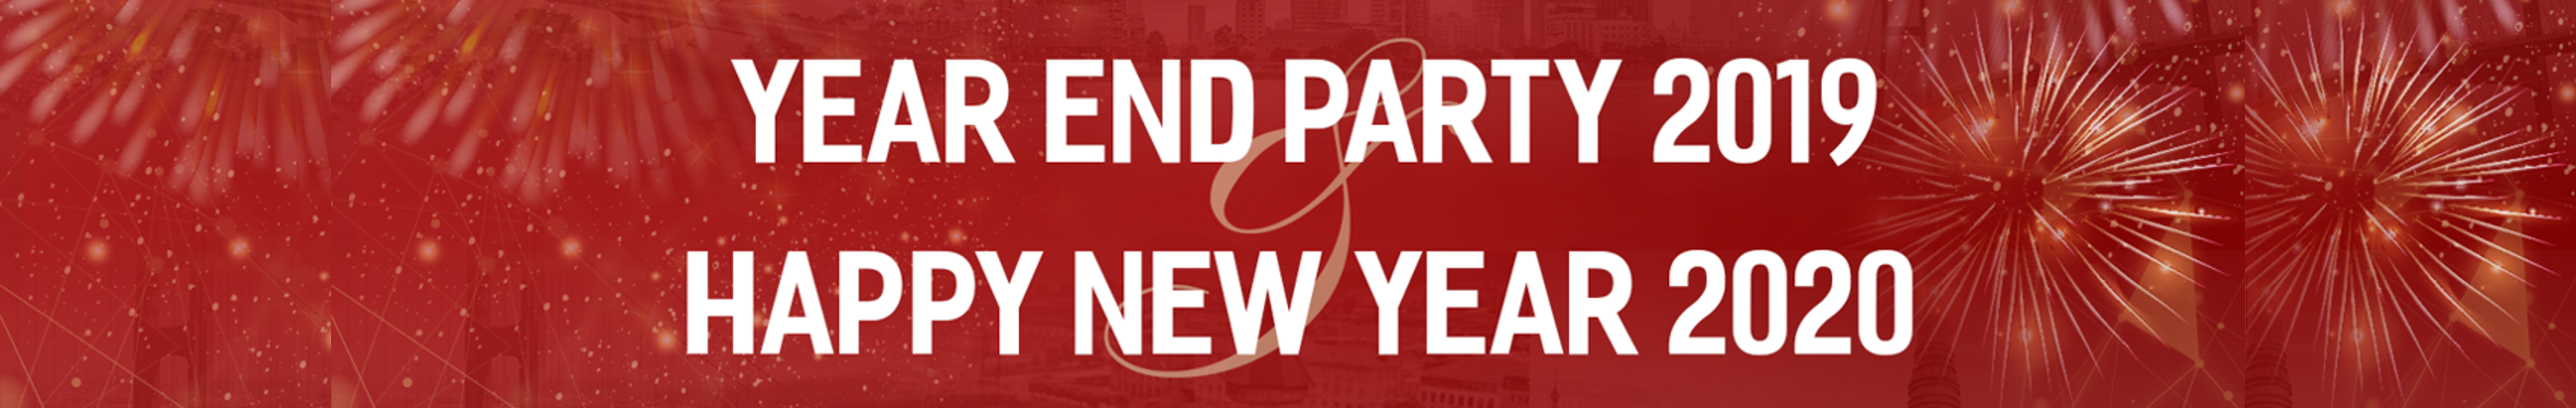
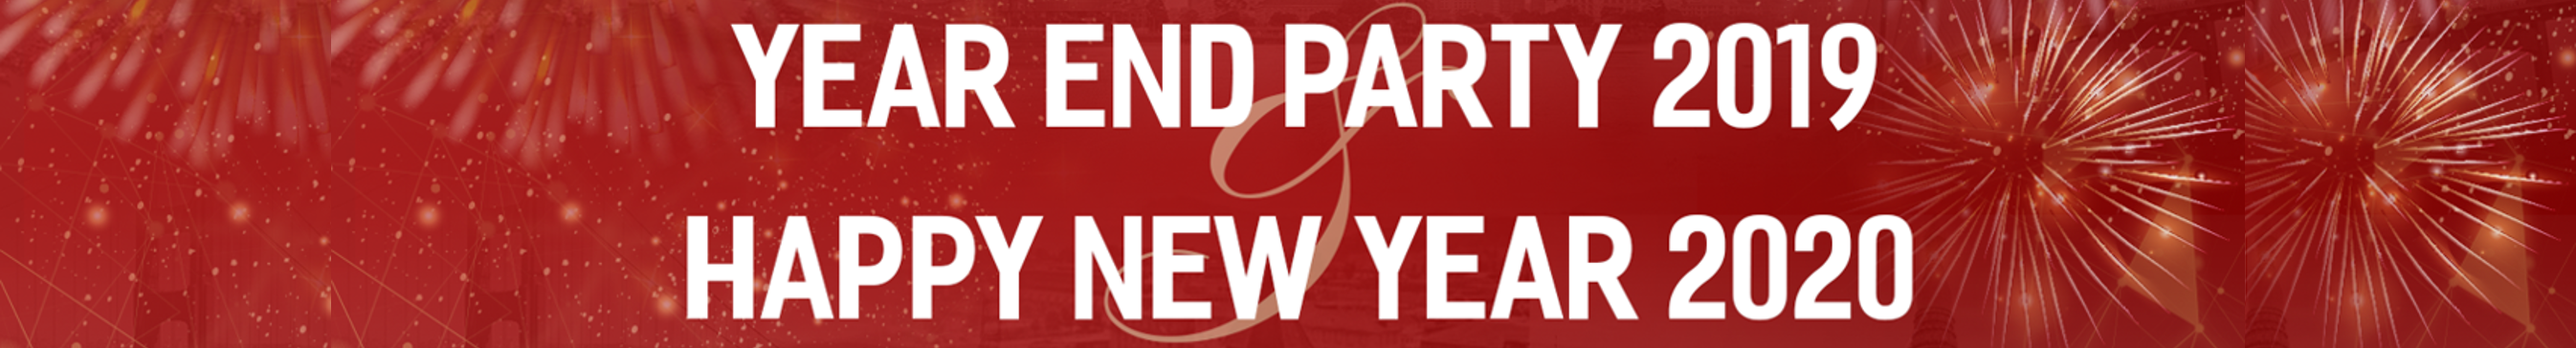
fix ui

diff --git a/scss/style.scss b/scss/style.scss
@@ -35,8 +35,8 @@ input[type="file"] {
 }
 
 body {
-    width: 100vw;
-    height: 100vh;
+    width: calc(100% - 10px);
+    height: 100%;
     font-family: 'Segoe UI', Tahoma, Geneva, Verdana, sans-serif;
     font-weight: normal;
     font-size: 62.5%;
@@ -160,18 +160,17 @@ body {
             top: 0;
             margin-bottom: 30px;            
             width: 100%;
+            background-color: $white-color;
             z-index: 1;
-
+            
             .banner {
                 display: flex;
                 flex-direction: column;
-                width: 90%;
-                max-height: 20%;
+                width: 100%;
+                max-height: 250px;
                 margin: auto;
                 margin-bottom: 1%;
-                margin-top: 1%;
                 align-items: center;
-
 
                 .banner-img {
                     width: 100%;
@@ -207,8 +206,11 @@ body {
 
             .title-input-message {
                 width: 100%;
+                margin-top: 1%;
                 display: none;
                 text-align: center;
+                background-color: white;
+                z-index: 1;
 
                 @include Responsive(QHD) {
                     font-size: 3.5rem;
@@ -376,7 +378,7 @@ body {
         width: 100%;
         height: 40px;
         z-index: 1;
-        // flex-shrink: 0;
+        flex-shrink: 0;
         border-top: 1px solid #AAA;
         color: #333;
         background-color: $white-color;
@@ -389,7 +391,7 @@ body {
         }
 
         .footer-text {
-            margin-top: -15px;
+            margin-top: -25px;
             font-size: 11px;
         }
     }

diff --git a/scss/style.css b/scss/style.css
@@ -3,8 +3,8 @@ input[type="file"] {
 }
 
 body {
-  width: 100vw;
-  height: 100vh;
+  width: calc(100% - 10px);
+  height: 100%;
   font-family: 'Segoe UI', Tahoma, Geneva, Verdana, sans-serif;
   font-weight: normal;
   font-size: 62.5%;
@@ -168,6 +168,7 @@ body {
   top: 0;
   margin-bottom: 30px;
   width: 100%;
+  background-color: #ffffff;
   z-index: 1;
 }
 
@@ -179,11 +180,10 @@ body {
   -webkit-box-direction: normal;
       -ms-flex-direction: column;
           flex-direction: column;
-  width: 90%;
-  max-height: 20%;
+  width: 100%;
+  max-height: 250px;
   margin: auto;
   margin-bottom: 1%;
-  margin-top: 1%;
   -webkit-box-align: center;
       -ms-flex-align: center;
           align-items: center;
@@ -230,8 +230,11 @@ body {
 
 .wrapper-content-banner .title-input-message {
   width: 100%;
+  margin-top: 1%;
   display: none;
   text-align: center;
+  background-color: white;
+  z-index: 1;
 }
 
 @media all and (min-width: 1920px) {
@@ -439,6 +442,8 @@ body {
   width: 100%;
   height: 40px;
   z-index: 1;
+  -ms-flex-negative: 0;
+      flex-shrink: 0;
   border-top: 1px solid #AAA;
   color: #333;
   background-color: #ffffff;
@@ -452,7 +457,7 @@ body {
 }
 
 .wrapper-footer .footer-text {
-  margin-top: -15px;
+  margin-top: -25px;
   font-size: 11px;
 }
 /*# sourceMappingURL=style.css.map */

diff --git a/js/change-me.js b/js/change-me.js
@@ -4,7 +4,7 @@ let manualGeneratorInterval = 1000;
 let priceTypeNames = ["Giải đặc biệt", "First price", "Second price", "Third price", "Common price"];
 let priceTypeColors = ["#ffb6c1", "#e7bd42", "#aaa9ad", "#cd7f32", "#20b2aa"];
 
-let bannerImage = "./di.png";
+let bannerImage = "./long-ass-dinner.png";
 
 let fontSize = 3;
 
